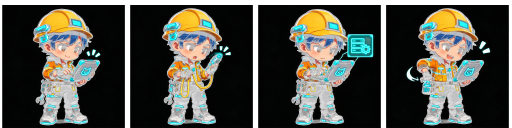
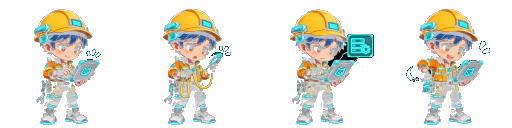
feat(web): pick the character an agent wears from its profile
The panel avatar opens a picker of all 48 characters, remembered per agent
in this browser. The infra work sheet had an opaque black background, which
showed as a black frame while the agent worked; its outer background is now
transparent.

diff --git a/web/app.js b/web/app.js
@@ -1002,7 +1002,32 @@ const stillChars = [...Array(9).keys()].map(i => 'cx-kid' + i)
 const charPool = chars.concat(stillChars)
 const animSpec = { walkR: [6, 0.62], walkL: [6, 0.62], work: [4, 0.9], think: [4, 1.6], rest: [4, 2.4], cheer: [4, 1.2] }
 
-function charFor (id) { return chars[hash(id) % chars.length] }
+// A character the grown-up chose for one agent in this browser; otherwise the
+// one its id hashes to.
+const charKey = id => 'aiagentChar:' + id
+function charFor (id) {
+  let pick = ''
+  try { pick = localStorage.getItem(charKey(id)) || '' } catch (e) { pick = '' }
+  if (charPool.includes(pick)) return pick
+  return chars[hash(id) % chars.length]
+}
+
+function repaintActor (act) {
+  if (!act || !act.spr) return
+  act.char = charFor(act.id)
+  act.anim2 = ''
+  setAnim(act, act.walking ? act.walkDir || 'walkR' : act.mood || 'rest')
+}
+
+function chooseChar (id, c) {
+  try {
+    if (c) localStorage.setItem(charKey(id), c)
+    else localStorage.removeItem(charKey(id))
+  } catch (e) { /* private mode: the pick lasts this visit */ }
+  repaintActor(st.actors[id])
+  repaintActor(st.focus && st.focus.actors[id])
+  render()
+}
 
 function moodAnim (a) {
   if (a.mood === 'work') return a.label === activityLabel.planning || a.label === activityLabel.research ? 'think' : 'work'
@@ -1763,7 +1788,7 @@ function subList (sess) {
 }
 
 function sessionHeader (sess) {
-  const ava = h('div', { class: 'ava' }, avatarFace(sess))
+  const ava = h('button', { type: 'button', class: 'ava avaPick', title: tr('เปลี่ยนตัวละคร'), 'aria-label': tr('เปลี่ยนตัวละคร'), onclick: () => openCharPicker(sess) }, avatarFace(sess))
   ava.style.background = 'color-mix(in srgb, ' + agentColor(sess) + ' 18%, transparent)'
   const stateDot = h('i')
   stateDot.style.background = !sess.live ? 'var(--line)' : sess.status === 'running' ? 'var(--brand)' : sess.status === 'needsInput' ? 'var(--amber)' : 'var(--muted)'
@@ -2441,15 +2466,52 @@ const AVA_PX = 48      // .ava is 48px square
 const AVA_ZOOM = 2.3   // how much of the 128px frame the head should fill
 function avatarFace (sess) {
   const el = h('i', { class: 'avaFace' })
+  const c = charFor(sess.sessionId)
+  if (c.startsWith('cx-')) {
+    el.style.backgroundImage = 'url(' + A(c) + ')'
+    el.style.backgroundSize = 'contain'
+    el.style.backgroundPosition = 'center'
+    return el
+  }
   // One frame, scaled. Percentages cannot express this: a negative background
   // position in % is measured against (box - image), which walks the sheet the
   // wrong way and lands on an empty frame.
   const f = AVA_PX * AVA_ZOOM
-  el.style.backgroundImage = 'url(' + A('ch-' + charFor(sess.sessionId) + '-rest') + ')'
+  el.style.backgroundImage = 'url(' + A('ch-' + c + '-rest') + ')'
   el.style.backgroundSize = (f * 4) + 'px ' + f + 'px'
   el.style.backgroundPosition = (AVA_PX / 2 - f / 2) + 'px ' + (AVA_PX / 2 - f * 0.28) + 'px'
   return el
 }
+
+// ----- pick the character that stands for one agent -----
+let pickingFor = ''
+function charPreview (c) {
+  const el = h('i', { class: 'charImg' })
+  if (c.startsWith('cx-')) {
+    el.style.backgroundImage = 'url(' + A(c) + ')'
+    el.style.backgroundSize = 'contain'
+    el.style.backgroundPosition = 'center'
+  } else {
+    el.style.backgroundImage = 'url(' + A('ch-' + c + '-rest') + ')'
+    el.style.backgroundSize = '400% 100%'
+    el.style.backgroundPosition = '0 0'
+  }
+  return el
+}
+
+function openCharPicker (sess) {
+  pickingFor = sess.sessionId
+  const cur = charFor(sess.sessionId)
+  $('charGrid').replaceChildren(...charPool.map(c => h('button', {
+    type: 'button',
+    class: 'charOpt' + (c === cur ? ' on' : ''),
+    title: c,
+    'aria-pressed': String(c === cur),
+    onclick: () => { chooseChar(pickingFor, c); $('charPicker').close() }
+  }, charPreview(c))))
+  $('charPicker').showModal()
+}
+$('charReset').addEventListener('click', () => { chooseChar(pickingFor, ''); $('charPicker').close() })
 
 
 // ---------- actions ----------

diff --git a/web/styles.css b/web/styles.css
@@ -113,6 +113,13 @@ code, pre, .mono { font-family: ui-monospace, 'IBM Plex Mono', monospace; font-s
 .ava { width: 48px; height: 48px; border-radius: 14px; display: grid; place-items: center; flex: none; overflow: hidden }
 /* the agent's own face, cropped out of its walking sheet (avatarFace) */
 .avaFace { width: 100%; height: 100%; display: block; background-repeat: no-repeat; image-rendering: auto }
+.avaPick { border: 0; padding: 0; cursor: pointer; font: inherit }
+.avaPick:hover, .avaPick:focus-visible { box-shadow: 0 0 0 2px var(--brand) }
+.charGrid { display: grid; grid-template-columns: repeat(auto-fill, minmax(92px, 1fr)); gap: 10px }
+.charOpt { border: 2px solid var(--line); border-radius: 14px; background: transparent; padding: 8px; cursor: pointer; min-height: 92px }
+.charOpt.on { border-color: var(--brand) }
+.charImg { display: block; width: 72px; height: 72px; margin: 0 auto; background-repeat: no-repeat }
+.charFoot { margin-top: 12px; text-align: right }
 .who p { color: var(--muted); font-size: 13px }
 .state { display: inline-flex; align-items: center; gap: 8px; font-weight: 500 }
 .state i { width: 8px; height: 8px; border-radius: 50% }

diff --git a/web/index.html b/web/index.html
@@ -115,6 +115,12 @@
   <div class="spFoot" id="panelPopFoot" hidden></div>
 </dialog>
 
+<dialog id="charPicker" class="screenPop">
+  <div class="spHead"><h2>เลือกตัวละครของ agent นี้</h2><form method="dialog"><button class="ghost" aria-label="ปิด">✕</button></form></div>
+  <div class="spBody"><div class="charGrid" id="charGrid"></div>
+    <div class="charFoot"><button type="button" class="ghost" id="charReset">ใช้ค่าเริ่มต้น</button></div></div>
+</dialog>
+
 <dialog id="accountsDlg" class="screenPop">
   <div class="spHead"><h2>บัญชี AI บนเครื่องนี้</h2><form method="dialog"><button class="ghost" aria-label="ปิด">✕</button></form></div>
   <div class="spBody" id="accountsBody"></div>

diff --git a/web/i18n.js b/web/i18n.js
@@ -245,6 +245,7 @@ var EN = {
   'ยกเลิก login': 'Cancel the login',
   'สลับบัญชี': 'Switch account',
   'ยืนยัน': 'Confirm',
+  'เปลี่ยนตัวละคร': 'Change character',
 
   // sending work
   'ส่งไม่สำเร็จ: ': 'Could not send: ',
